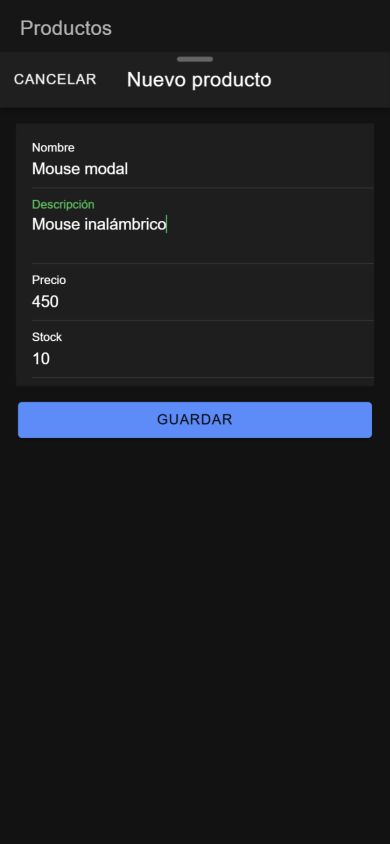
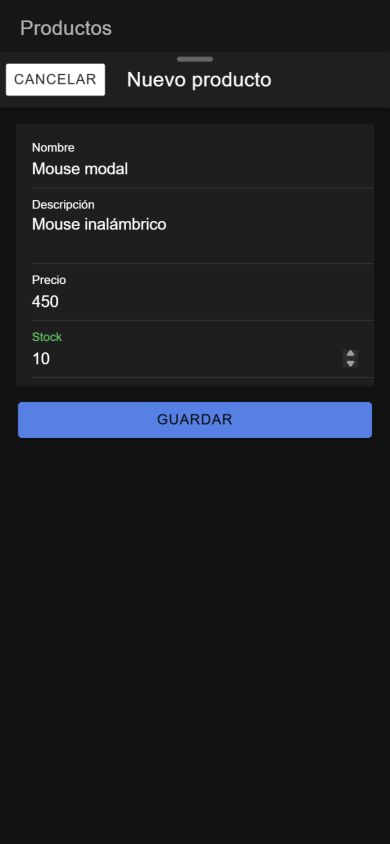
docs: muestra opciones de boton mas en manual 03 mediante modal

diff --git a/docs/manuales/03_crear_elemento_modal.md b/docs/manuales/03_crear_elemento_modal.md
@@ -86,21 +86,31 @@ import { ProductosFormPageModule } from '../productos-form/productos-form.module
 
 Conserva `CommonModule`, `FormsModule`, `IonicModule`, `ProductosListPageRoutingModule` y la declaración de `ProductosListPage`. No agregues `ProductosFormPage` a las declaraciones del listado: ya pertenece a su propio módulo. Ambos módulos completos están en la sección 4.
 
-### Paso 3. Agregar el botón flotante al listado
+### Paso 3. Elegir la ubicación del botón de creación
 
-Abre `mobile/src/app/productos-list/productos-list.page.html`. **Después de `</ion-content>`**, agrega:
+Abre `mobile/src/app/productos-list/productos-list.page.html`. **Opción A: botón flotante.** Dentro de `ion-content`, después de `</ion-list>` y **antes de `</ion-content>`**, agrega:
 
 ```html
 <ion-fab slot="fixed" vertical="bottom" horizontal="center">
-    <ion-fab-button (click)="nuevoProducto()">
+    <ion-fab-button (click)="nuevoProducto()" aria-label="Nuevo producto">
         <ion-icon name="add"></ion-icon>
     </ion-fab-button>
 </ion-fab>
 ```
 
-Este es el botón **+** para crear un producto. Al presionarlo se ejecutará `nuevoProducto()`. Conserva las filas y los botones **Ver detalle** del manual 02.
+Este es el botón **+** para crear un producto. Al presionarlo se ejecutará `nuevoProducto()`. Conserva las filas y los botones con icono de **ojo** del manual 02.
 
-Si vienes de la variante mediante página, retira de la cabecera el bloque `ion-buttons` que contiene **Nuevo** y su `[routerLink]="['/productos-form']"`. El acceso al formulario en esta variante será el botón flotante que acabas de agregar.
+**Opción B: botón en la barra.** Retira el bloque `ion-fab` anterior y agrega este bloque **dentro de `ion-toolbar`, después de `ion-title`**:
+
+```html
+<ion-buttons slot="end">
+  <ion-button fill="solid" (click)="nuevoProducto()" aria-label="Nuevo producto">
+    <ion-icon slot="icon-only" name="add"></ion-icon>
+  </ion-button>
+</ion-buttons>
+```
+
+La figura 4 muestra el acceso flotante y la figura 5 el acceso en la barra. **Elige una sola opción**. Ambas llaman a `nuevoProducto()` y abren el mismo modal; aquí no utilices `routerLink` para crear productos. Si vienes de la variante mediante página, reemplaza su acceso de creación por la opción elegida. El código completo de la sección 4 utiliza la opción A. Los botones `ion-button` llevan `fill="solid"`; `ion-fab-button` ya es sólido.
 
 ### Paso 4. Abrir el modal y recibir el resultado
 
@@ -326,7 +336,7 @@ Abre `mobile/src/app/productos-form/productos-form.page.html` y **reemplaza su c
 <ion-header>
   <ion-toolbar>
     <ion-buttons slot="start">
-      <ion-button (click)="cerrarModal()">
+      <ion-button fill="solid" (click)="cerrarModal()">
         Cancelar
       </ion-button>
     </ion-buttons>
@@ -363,7 +373,7 @@ Abre `mobile/src/app/productos-form/productos-form.page.html` y **reemplaza su c
       </ion-note>
     </ion-list>
 
-    <ion-button expand="block" type="submit" class="ion-margin-top" [disabled]="guardando">
+    <ion-button fill="solid" expand="block" type="submit" class="ion-margin-top" [disabled]="guardando">
       {{ guardando ? 'Guardando...' : 'Guardar' }}
     </ion-button>
   </form>
@@ -491,18 +501,17 @@ export class ProductosListPage implements OnInit {
         <p>Stock: {{ producto.stock }}</p>
         <p>Registro: {{ producto.fecha_registro | date:'yyyy-MM-dd' }}</p>
       </ion-label>
-      <ion-button slot="end" [routerLink]="['/productos-view', producto.id]">
-        Ver detalle
+      <ion-button fill="solid" slot="end" [routerLink]="['/productos-view', producto.id]" aria-label="Ver detalle">
+        <ion-icon slot="icon-only" name="eye"></ion-icon>
       </ion-button>
     </ion-item>
   </ion-list>
+  <ion-fab slot="fixed" vertical="bottom" horizontal="center">
+      <ion-fab-button (click)="nuevoProducto()" aria-label="Nuevo producto">
+          <ion-icon name="add"></ion-icon>
+      </ion-fab-button>
+  </ion-fab>
 </ion-content>
-
-<ion-fab slot="fixed" vertical="bottom" horizontal="center">
-    <ion-fab-button (click)="nuevoProducto()">
-        <ion-icon name="add"></ion-icon>
-    </ion-fab-button>
-</ion-fab>
 ```
 
 ### `mobile/src/app/productos-form/productos-form.module.ts`
@@ -689,7 +698,7 @@ export class ProductosFormPage implements OnInit {
 <ion-header>
   <ion-toolbar>
     <ion-buttons slot="start">
-      <ion-button (click)="cerrarModal()">
+      <ion-button fill="solid" (click)="cerrarModal()">
         Cancelar
       </ion-button>
     </ion-buttons>
@@ -726,7 +735,7 @@ export class ProductosFormPage implements OnInit {
       </ion-note>
     </ion-list>
 
-    <ion-button expand="block" type="submit" class="ion-margin-top" [disabled]="guardando">
+    <ion-button fill="solid" expand="block" type="submit" class="ion-margin-top" [disabled]="guardando">
       {{ guardando ? 'Guardando...' : 'Guardar' }}
     </ion-button>
   </form>
@@ -765,6 +774,20 @@ Presiona **Guardar** y luego **Aceptar** en la confirmación. El modal debe cerr
 </p>
 
 Las pruebas de guardado crean un registro real en la colección `productos`. Los demás productos y las fechas de las capturas dependen de la base de datos del entorno.
+
+### Dos ubicaciones para abrir el mismo modal
+
+Prueba el icono **+** en la ubicación elegida. Debe abrir el formulario sin cambiar la URL de `/productos-list`. Presiona **Cancelar** para cerrarlo sin guardar.
+
+<p align="center">
+  <img src="imagenes/03-modal-boton-flotante.jpg" alt="Botón flotante más para abrir el formulario modal" width="390"><br>
+  <em>Figura 4. Opción A: acceso flotante al formulario modal.</em>
+</p>
+
+<p align="center">
+  <img src="imagenes/03-modal-boton-barra.jpg" alt="Botón sólido más en la barra para abrir el formulario modal" width="390"><br>
+  <em>Figura 5. Opción B: acceso al mismo modal desde la barra.</em>
+</p>
 
 ## 6. Explicación detallada del flujo
 
